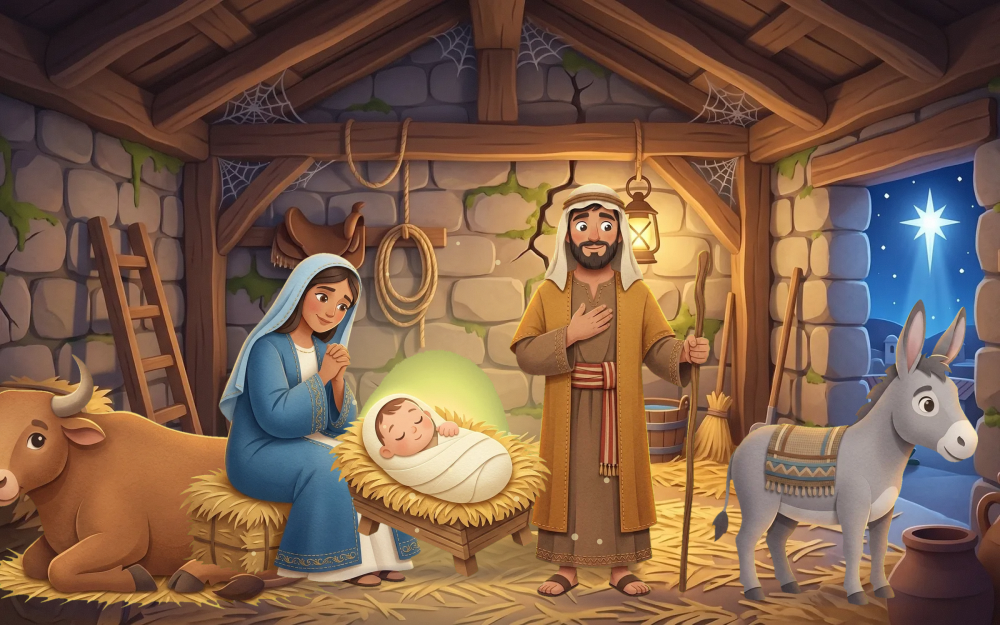
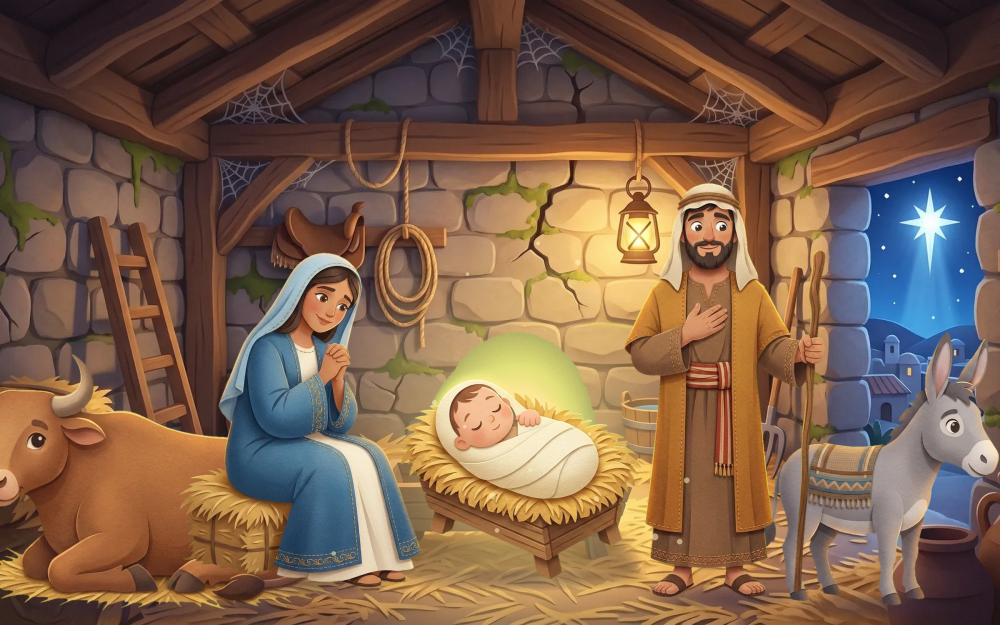
Christmas page 3: lamp visible on Joseph's left, manger over the background trough
Joseph steps right of the painted lamp; the baby's manger moves onto the
background's empty trough so it no longer shows beside it.

Changed region(s): [[0.31, 0.2736, 1.0, 0.9728]]

diff --git a/src/scenes/christmas.tsx b/src/scenes/christmas.tsx
@@ -287,7 +287,7 @@ export function BornInAStable({ found }: SceneArtProps) {
   return (
     <>
       <Backdrop src={stableBg} />
-      <HolyGlow x={440} y={470} r={240} />
+      <HolyGlow x={520} y={470} r={240} />
       <SoftShadow x={150} y={608} rx={150} ry={16} opacity={0.4} />
       <Layer
         src={stableOx}
@@ -299,14 +299,14 @@ export function BornInAStable({ found }: SceneArtProps) {
         className="a-breathe-slow"
         delay={1.5}
       />
-      <SoftShadow x={840} y={596} rx={100} ry={14} opacity={0.4} />
+      <SoftShadow x={880} y={606} rx={90} ry={13} opacity={0.4} />
       <Layer
         src={stableDonkey}
         w={L.donkey.w}
         h={L.donkey.h}
-        x={845}
+        x={880}
         y={606}
-        scale={0.56}
+        scale={0.5}
         className="a-breathe-slow"
         delay={0.7}
       />
@@ -320,12 +320,12 @@ export function BornInAStable({ found }: SceneArtProps) {
         scale={0.42}
         className="a-breathe"
       />
-      <SoftShadow x={610} y={598} rx={80} ry={12} opacity={0.4} />
+      <SoftShadow x={725} y={598} rx={80} ry={12} opacity={0.4} />
       <Layer
         src={stableJoseph}
         w={L["joseph-stand"].w}
         h={L["joseph-stand"].h}
-        x={610}
+        x={725}
         y={598}
         scale={0.52}
         className="a-breathe"
@@ -344,10 +344,10 @@ export function BornInAStable({ found }: SceneArtProps) {
           delay={1.7}
         />
       </Layer>
-      <SoftShadow x={440} y={575} rx={110} ry={12} opacity={0.35} />
-      <Layer src={stableBaby} w={L.baby.w} h={L.baby.h} x={440} y={578} scale={0.46} />
-      <Motes x={440} top={200} bottom={560} spread={220} />
-      {found.includes("baby") && <Sparkle x={440} y={380} s={1.8} />}
+      <SoftShadow x={520} y={580} rx={125} ry={12} opacity={0.35} />
+      <Layer src={stableBaby} w={L.baby.w} h={L.baby.h} x={520} y={580} scale={0.5} />
+      <Motes x={520} top={200} bottom={560} spread={220} />
+      {found.includes("baby") && <Sparkle x={520} y={370} s={1.8} />}
       <Grain opacity={0.05} />
     </>
   );

diff --git a/src/data/stories/christmas.ts b/src/data/stories/christmas.ts
@@ -115,8 +115,8 @@ export const christmas: Story = {
       hotspots: [
         {
           id: "baby",
-          x: 44,
-          y: 84,
+          x: 52,
+          y: 82,
           size: 22,
           label: "baby Jesus",
           reward: "The King of kings, asleep in a feeding trough.",

diff --git a/docs/evidence/2026-09-18-christmas-story/record.md b/docs/evidence/2026-09-18-christmas-story/record.md
@@ -165,3 +165,8 @@ the credit outage, then done). Motion check 33 clean; 148 tests.
   frame: the left wing goes from 150×213 px at rest to 126×260 px at
   mid-beat. Chrome applies 3D transforms to SVG groups; a browser that does
   not shows the spread pose. `gabriel-midbeat-phone.png` replaced.
+- **Page 3 "move the lamp to Joseph's left":** the lamp is part of the
+  background, so Joseph stepped right of it (x 610 → 725) and the donkey
+  over (x 880, scale 0.5). That uncovered the background's empty trough, so
+  the baby's manger now covers it end to end (x 440 → 520, scale 0.5),
+  glow, motes and hotspot (52 %, 82 %) with it. `christmas-stable.png` replaced.
